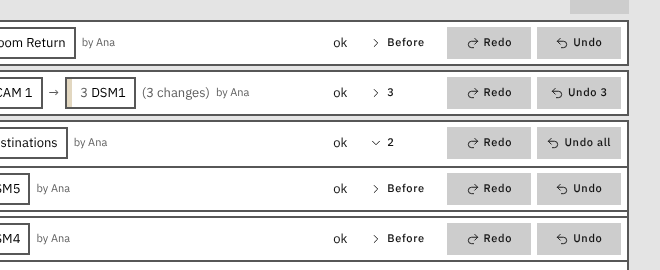
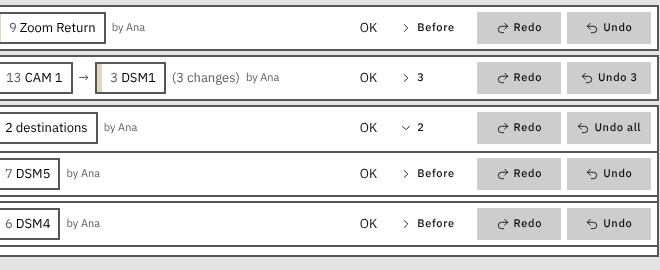
Main page review fixes: History action labels, button sizes, search note, routers word, test comments, A2-05 proof (A2-05)
Claude-Session: https://claude.ai/code/session_01EGyR6KeHGwdd8x7hKiH9Vs

diff --git a/web/searchbox.js b/web/searchbox.js
@@ -15,7 +15,7 @@ export function emptyNote(rows, fetching) {
   // A search says it all in one sentence: the clear button beside the boxes clears it, and the note stays empty.
   if (searching)
     return el('div', 'sode__filters-empty', el('span', 'sode__hint', searchRespectsFilters() ? 'No matches.' : 'No matches (filter sets not applied).'));
-  const clear = el('button', 'pb-btn pb-btn--outline pb-btn--sm', 'Clear filters');
+  const clear = el('button', 'pb-btn pb-btn--outline', 'Clear filters');
   clear.type = 'button';
   clear.addEventListener('click', () => pickSet('all', 'All'));
   return el('div', 'sode__filters-empty', el('span', 'sode__hint', activeStack().length ? 'No matches in the stacked sets.' : 'No matches.'), clear);
@@ -145,7 +145,7 @@ for (const b of searchBoxes) {
 function renderSearch() {
   const on = searchActive();
   const n = on ? histRows(S.hist).length : 0;
-  const note = !on || !n ? '' : `${n} found${S.histMore ? ' so far' : ''}${searchRespectsFilters() ? '' : ', filters ignored'}`;
+  const note = !on || !n ? '' : `${n} found${S.histMore ? ' so far' : ''}${searchRespectsFilters() ? '' : ', filter sets not applied'}`;
   for (const b of searchBoxes) {
     for (const k of ['src', 'dst']) {
       const st = sb[k];

diff --git a/web/index.html b/web/index.html
@@ -185,7 +185,7 @@
         </div>
         <div class="sode__sets-bar">
           <div class="sode__sets" data-sets role="group" aria-label="Filter sets"></div>
-          <button type="button" class="pb-btn pb-btn--ghost pb-btn--sm sode__filters-btn sode__chipbtn" data-filters aria-haspopup="dialog">Filters</button>
+          <button type="button" class="pb-btn pb-btn--ghost sode__filters-btn sode__chipbtn" data-filters aria-haspopup="dialog">Filters</button>
         </div>
       </div>
       <ul class="sode__hist" id="history" tabindex="-1" aria-label="History"></ul>
@@ -765,7 +765,7 @@
         <div class="sode__recent-head">
           <span class="sode__label" id="m-recent-head">History</span>
           <div class="sode__sets" data-sets role="group" aria-label="Filter sets"></div>
-          <button type="button" class="pb-btn pb-btn--ghost pb-btn--sm sode__filters-btn sode__chipbtn" data-filters aria-haspopup="dialog">Filters</button>
+          <button type="button" class="pb-btn pb-btn--ghost sode__filters-btn sode__chipbtn" data-filters aria-haspopup="dialog">Filters</button>
         </div>
         <div class="sode__search" data-search>
           <span class="sode__search-box">

diff --git a/web/tiepicker.js b/web/tiepicker.js
@@ -57,7 +57,7 @@ import {
   usedLast,
   choiceLook,
 } from './tiepickrules.js';
-import { withOneOffs, oneOffEnds, addOneOff, chooseOneOff, storedText, chainWords, feedingHop } from './tiepickrules.js';
+import { withOneOffs, oneOffEnds, addOneOff, chooseOneOff, storedText, chainWords, feedingHop, destsWord } from './tiepickrules.js';
 import { mayProtect } from './protects.js';
 import { reasonText } from './tietakerules.js';
 
@@ -457,7 +457,7 @@ function dstsNode(st) {
   const { o } = cur;
   if (!o.members?.length) return endNode('Destination', dstOf(st.route.dst), 'sode-tiepick__end--dst', st.marks?.end);
   const routers = [...new Set(o.members.map((x) => prefix(x.dst.router || '')))];
-  const word = el('span', 'sode-tiepick__word', `${o.members.length > 1 ? 'Destinations' : 'Destination'} on Router ${routers.join(', ')}`);
+  const word = el('span', 'sode-tiepick__word', destsWord(o.members.length, routers));
   const rows = o.members.map((x, i) => {
     const marked = i === 0 ? st.marks?.end : cur.hits.includes(x.at);
     return el('div', 'sode-tiepick__dst', labelNode(x.dst), ...(marked ? [changedMark()] : []));

diff --git a/web/bookmarks.js b/web/bookmarks.js
@@ -100,13 +100,13 @@ export function renderStrips() {
   const { list } = shownBookmarks();
   const rows = rowsNow();
   for (const box of document.querySelectorAll('[data-presets]')) {
-    const edit = el('button', { type: 'button', class: 'pb-btn pb-btn--ghost pb-btn--sm sode__chipbtn', 'aria-haspopup': 'dialog' }, 'Edit');
+    const edit = el('button', { type: 'button', class: 'pb-btn pb-btn--ghost sode__chipbtn', 'aria-haspopup': 'dialog' }, 'Edit');
     edit.addEventListener('click', () => emit('bookmarkEditor'));
     // Edit and All presets are the same button, beside the heading, so the strip is one row with or without bookmarks.
     // All presets has the name of the Presets popup it opens: the popup lists presets, not bookmarks.
     const more = el(
       'button',
-      { type: 'button', class: 'pb-btn pb-btn--ghost pb-btn--sm sode__chipbtn sode__presets-all', 'aria-haspopup': 'dialog' },
+      { type: 'button', class: 'pb-btn pb-btn--ghost sode__chipbtn sode__presets-all', 'aria-haspopup': 'dialog' },
       icon('list'),
       'All presets',
     );

diff --git a/web/tiepickrules.js b/web/tiepickrules.js
@@ -14,6 +14,9 @@
 // a tie take). from, to and only make the picker one question of a take (fitQuestion). It shows the steps from to to,
 // and only names the router that the step from must go to.
 
+// destsWord is the head of the destinations of one question: "Router" is plural when the destinations are on more than one.
+export const destsWord = (n, routers) => `${n > 1 ? 'Destinations' : 'Destination'} on ${routers.length > 1 ? 'Routers' : 'Router'} ${routers.join(', ')}`;
+
 // tieOf is the tie line id that hop h of path p feeds, or '' for the last hop.
 const tieOf = (p, h) => p.hops[h]?.tie?.id || '';
 

diff --git a/web/history.css b/web/history.css
@@ -44,11 +44,12 @@
   justify-self: start;
 }
 /* Each button has a track of one width, so Redo and Undo each make one column down the list whatever the Undo words
-   ("Undo", "Undo 3", "Undo all"). 5.25rem holds "Undo all". */
+   ("Undo", "Undo 3", "Undo all"). 5.25rem holds "Undo all"; a longer label ("Undo all 12", "Put TIE 1 back") widens
+   its column instead of being cut. */
 .sode__hist-actions {
   display: grid;
   gap: var(--pb-space-3);
-  grid-auto-columns: 5.25rem;
+  grid-auto-columns: minmax(5.25rem, max-content);
   grid-auto-flow: column;
   justify-content: end;
 }

diff --git a/internal/app/mainpatchrow_browser_test.go b/internal/app/mainpatchrow_browser_test.go
@@ -37,7 +37,7 @@ func TestChromeMainPatchRow(t *testing.T) {
 	b.waitFor("Inbox shows", `!!document.querySelector('[data-inbox-button]')?.offsetParent`)
 	b.eval(`document.activeElement.blur(); true`)
 
-	// A2-03, A2-13: Last and Next.
+	// Last and Next chips.
 	for _, k := range []string{"src", "dst"} {
 		slot := `[data-last="` + k + `"]`
 		b.gapX(k+": Last to Next", "--pb-space-3", slot+" > .sode__last", slot+" .sode__next")
@@ -55,26 +55,26 @@ func TestChromeMainPatchRow(t *testing.T) {
 	b.sameHeight("every box head", ".sode__boxes .sode__box-head")
 	b.noClip("Last 0–10", `[data-last="lvl"] .sode__last-text`)
 
-	// A2-10, A2-26: the gaps of the row.
+	// The gaps of the row.
 	b.gapX("Levels to Take", "--pb-space-6", "#lvl", "#patch")
 	b.gapX("Source to Destination", "calc(2 * var(--pb-space-6) + var(--sode-h-action))", "#src", "#dst")
 	b.gapX("+ to Levels", "calc(2 * var(--pb-space-6) + var(--sode-h-action))", "#dst-add", "#lvl")
 
-	// A2-23: Select All ends under Clear, its words on one line.
+	// Select All ends under Clear, its words on one line.
 	if x := b.boxes("#lvl-all", "#clear-all"); len(x) != 2 || math.Abs(x[0].Right-x[1].Right) > layoutTol {
 		t.Errorf("Select All and Clear end at %v, want one right edge", x)
 	}
 	b.sameMiddle("Select None on one line", "#lvl-all > span")
 	b.noClip("Select None", "#lvl-all")
 
-	// A2-11: out of keyboard mode the boxes keep no room for the hidden key note.
+	// Out of keyboard mode the boxes keep no room for the hidden key note.
 	for _, id := range []string{"src", "dst", "lvl"} {
 		if got, want := b.eval(`parseFloat(getComputedStyle(document.getElementById('`+id+`')).paddingRight)`).(float64), b.tokenPx(".sode__boxes", "--pb-space-3"); math.Abs(got-want) > layoutTol {
 			t.Errorf("#%s has a right pad of %v px, want --pb-space-3 (%v px)", id, got, want)
 		}
 	}
 
-	// A2-22: a disabled Clear and a disabled Take have patchbay's disabled look.
+	// A disabled Clear and a disabled Take have patchbay's disabled look.
 	look := `((n) => { const c = getComputedStyle(n); return [c.backgroundColor, c.borderTopColor, c.color, c.opacity].join(' '); })`
 	b.eval(`(() => { const p = Object.assign(document.createElement('button'), { className: 'pb-btn', disabled: true, id: 'probe-off' }); document.getElementById('patch').after(p); document.getElementById('patch').disabled = true; return true; })()`)
 	b.waitFor("Take's color change ends", `document.getElementById('patch').getAnimations().length === 0`)
@@ -83,13 +83,13 @@ func TestChromeMainPatchRow(t *testing.T) {
 	}
 	b.eval(`document.getElementById('probe-off').remove(); document.getElementById('patch').disabled = false; true`)
 
-	// A2-16: the top bar.
+	// The top bar.
 	if got, want := b.eval(`getComputedStyle(document.querySelector('.sode-inbox__word')).fontSize`), b.eval(`getComputedStyle(document.getElementById('conn-srv-text')).fontSize`); got != want {
 		t.Errorf("Inbox text is %v, the status text %v", got, want)
 	}
 	b.sameHeight("Inbox icon and status icons", "[data-inbox-button] .pb-icon", "#conn .sode__state > .pb-icon")
 
-	// A2-01: the routes under Source and Destination start on one line.
+	// The routes under Source and Destination start on one line.
 	pick := func(id, text string) {
 		b.waitFor(id+" match list", `(() => { const t = document.getElementById('`+id+`'); t.focus(); t.value = '`+text+`'; t.dispatchEvent(new Event('input', { bubbles: true })); return !!document.getElementById('`+id+`-opt-0'); })()`)
 		b.eval(`document.getElementById('` + id + `').dispatchEvent(new KeyboardEvent('keydown', { key: 'Tab', code: 'Tab', bubbles: true, cancelable: true })); true`)
@@ -100,12 +100,12 @@ func TestChromeMainPatchRow(t *testing.T) {
 	b.waitFor("routes under both boxes", `!!document.querySelector('#src-under > .sode__under-head') && !!document.querySelector('#dst-under > .sode__under-head')`)
 	b.sameMiddle("routes under Source and Destination", "#src-under > .sode__under-head", "#dst-under > .sode__under-head")
 
-	// A2-13: on a narrow window the Levels Last chip keeps room for "Last 0–10".
+	// On a narrow window the Levels Last chip keeps room for "Last 0–10".
 	size(1100, 900)
 	b.waitFor("1100 px", `innerWidth === 1100`)
 	b.noClip("Last 0–10 at 1100 px", `[data-last="lvl"] .sode__last-text`)
 
-	// A2-06: at 3840x2160 the Levels text box stops at 14rem, and Take keeps its gap.
+	// At 3840x2160 the Levels text box stops at 14rem, and Take keeps its gap.
 	size(3840, 2160)
 	b.waitFor("3840 px", `innerWidth === 3840`)
 	if w, max := b.boxes("#lvl")[0], b.tokenPx(".sode__boxes", "14rem"); w.Right-w.Left > max+layoutTol {
@@ -113,7 +113,7 @@ func TestChromeMainPatchRow(t *testing.T) {
 	}
 	b.gapX("Levels to Take at 3840 px", "--pb-space-6", "#lvl", "#patch")
 
-	// A2-16: two routers leave the address empty, and the status still ends on the bar's edge. A lost link
+	// Two routers leave the address empty, and the status still ends on the bar's edge. A lost link
 	// takes the rule before the status with it.
 	size(1920, 1080)
 	b.waitFor("1920 px", `innerWidth === 1920`)

diff --git a/internal/app/historytools_browser_test.go b/internal/app/historytools_browser_test.go
@@ -35,7 +35,7 @@ func TestChromeHistoryToolsOneHeight(t *testing.T) {
 	b.waitFor("bookmarks and filter sets", `document.querySelectorAll('#patch-view [data-presets] .sode__set').length === 2 && document.querySelectorAll('#patch-view [data-sets] .sode__set').length === 3`)
 	b.waitFor("fonts loaded", `document.fonts.status === 'loaded'`)
 	b.shot("desktop")
-	// A2-02, A2-12: one height in each row, an action high.
+	// One height in each row, an action high.
 	search := []string{"#history-search .sode__search-box > .pb-input", "#history-search [data-search-clear]"}
 	row := append(append([]string{}, search...), "#patch-view [data-filters]")
 	b.sameMiddle("filter boxes, their clear button and Filters", row...)
@@ -47,7 +47,7 @@ func TestChromeHistoryToolsOneHeight(t *testing.T) {
 			t.Errorf("%s is %.2f px high, want --sode-h-action (%.2f px)", x.Name, x.height(), want)
 		}
 	}
-	// A2-12: one text size on the chips and the buttons of both rows.
+	// One text size on the chips and the buttons of both rows.
 	if got := b.eval(`(() => {
 		const want = getComputedStyle(Object.assign(document.getElementById('history-search').appendChild(document.createElement('span')), { style: 'font-size: var(--pb-text-sm)' })).fontSize;
 		document.querySelector('#history-search > span:last-child').remove();
@@ -57,7 +57,7 @@ func TestChromeHistoryToolsOneHeight(t *testing.T) {
 		t.Errorf("text not at --pb-text-sm: %v", got)
 	}
 
-	// C1-18: the phone.
+	// The phone.
 	size(375, 812, true)
 	b.open(srv.URL + "/")
 	b.waitFor("phone layout", `document.documentElement.dataset.layout === 'phone' && !!document.querySelector('#m-recent [data-search-clear]')?.getClientRects().length`)

diff --git a/internal/app/tiepicklayout_browser_test.go b/internal/app/tiepicklayout_browser_test.go
@@ -53,7 +53,7 @@ func TestChromeTiePickerLayout(t *testing.T) {
 	if got := b.eval(`document.querySelector('.sode-tiepick__choice .sode-tiepick__wire').dataset.pbTip || ''`); got == "" {
 		t.Error("the wire has no tip")
 	}
-	// A2-20: the step and the ends name their routers as the buttons do.
+	// The step and the ends name their routers as the buttons do.
 	b.waitFor("routers named as on the buttons", `(() => { const t = document.getElementById('tiepick').textContent; return t.includes('Step 1: Router A to Router B') && t.includes('Source on Router A'); })()`)
 	b.check()
 }

diff --git a/internal/app/histactions_browser_test.go b/internal/app/histactions_browser_test.go
@@ -48,5 +48,9 @@ func TestChromeHistoryActionsColumn(t *testing.T) {
 	if t.Failed() {
 		t.Log(fmt.Sprint(xs))
 	}
+	// The widest labels a row can have: "Undo all 12" of a partial Group and "Put TIE 1 back" of a hop row. The
+	// column grows with its label, so neither is cut by the button's overflow.
+	b.eval(`(() => { const u = [...document.querySelectorAll('` + undo[0] + `')]; u[0].textContent = 'Undo all 12'; u[1].textContent = 'Put TIE 1 back'; return true; })()`)
+	b.noClip("longest action labels", undo[0])
 	b.check()
 }
